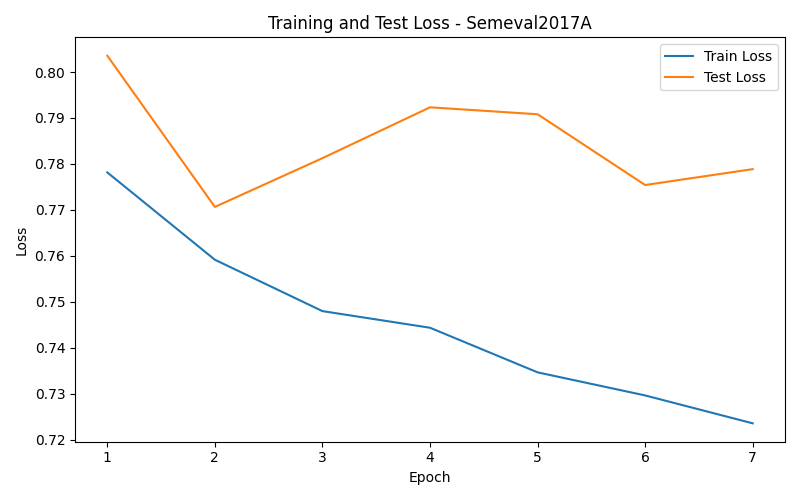
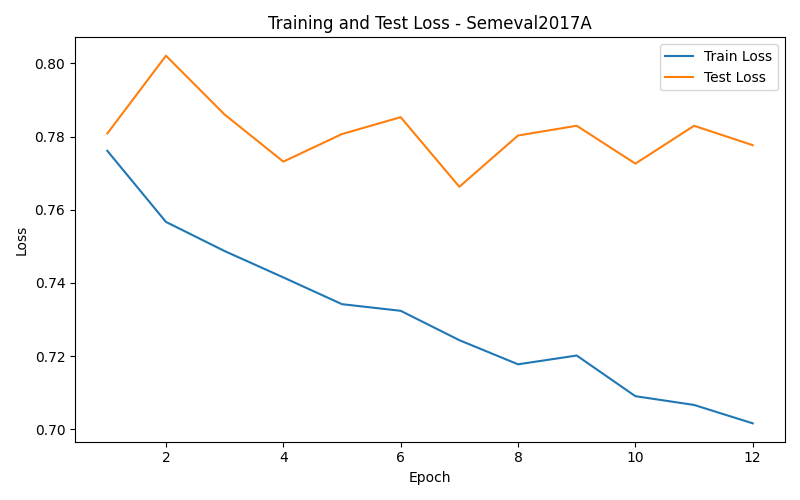
results for baseline + semval

diff --git a/main.py b/main.py
@@ -33,8 +33,8 @@ EMBEDDINGS = os.path.join(EMB_PATH, "glove.twitter.27B.200d.txt")
 # 2 - set the correct dimensionality of the embeddings
 EMB_DIM = 200
 
-EMB_TRAINABLE = True
-BATCH_SIZE = 128
+EMB_TRAINABLE = False
+BATCH_SIZE = 64
 EPOCHS = 50
 DATASET = "Semeval2017A"  # options: "MR", "Semeval2017A"
 
@@ -97,7 +97,8 @@ test_loader = DataLoader(test_set, batch_size=BATCH_SIZE, shuffle=False)
 #############################################################################
 # Model Definition (Model, Loss Function, Optimizer)
 #############################################################################
-model = BaselineDNN(output_size=1 if n_classes==2 else n_classes,  
+model = BaselineDNN(output_size=1 if n_classes==2 else n_classes,
+                    hidden_size=64,  
                     embeddings=embeddings,
                     trainable_emb=EMB_TRAINABLE)
 

diff --git a/models.py b/models.py
@@ -12,7 +12,7 @@ class BaselineDNN(nn.Module):
        to the number of classes.ngth)
     """
 
-    def __init__(self, output_size, embeddings, trainable_emb=False):
+    def __init__(self, output_size, hidden_size, embeddings, trainable_emb=False):
         """
 
         Args:
@@ -23,8 +23,6 @@ class BaselineDNN(nn.Module):
         """
 
         super(BaselineDNN, self).__init__()
-
-        hidden_size = 128
 
         # 1 - define the embedding layer
         num_embeddings, dim = np.array(embeddings).shape
